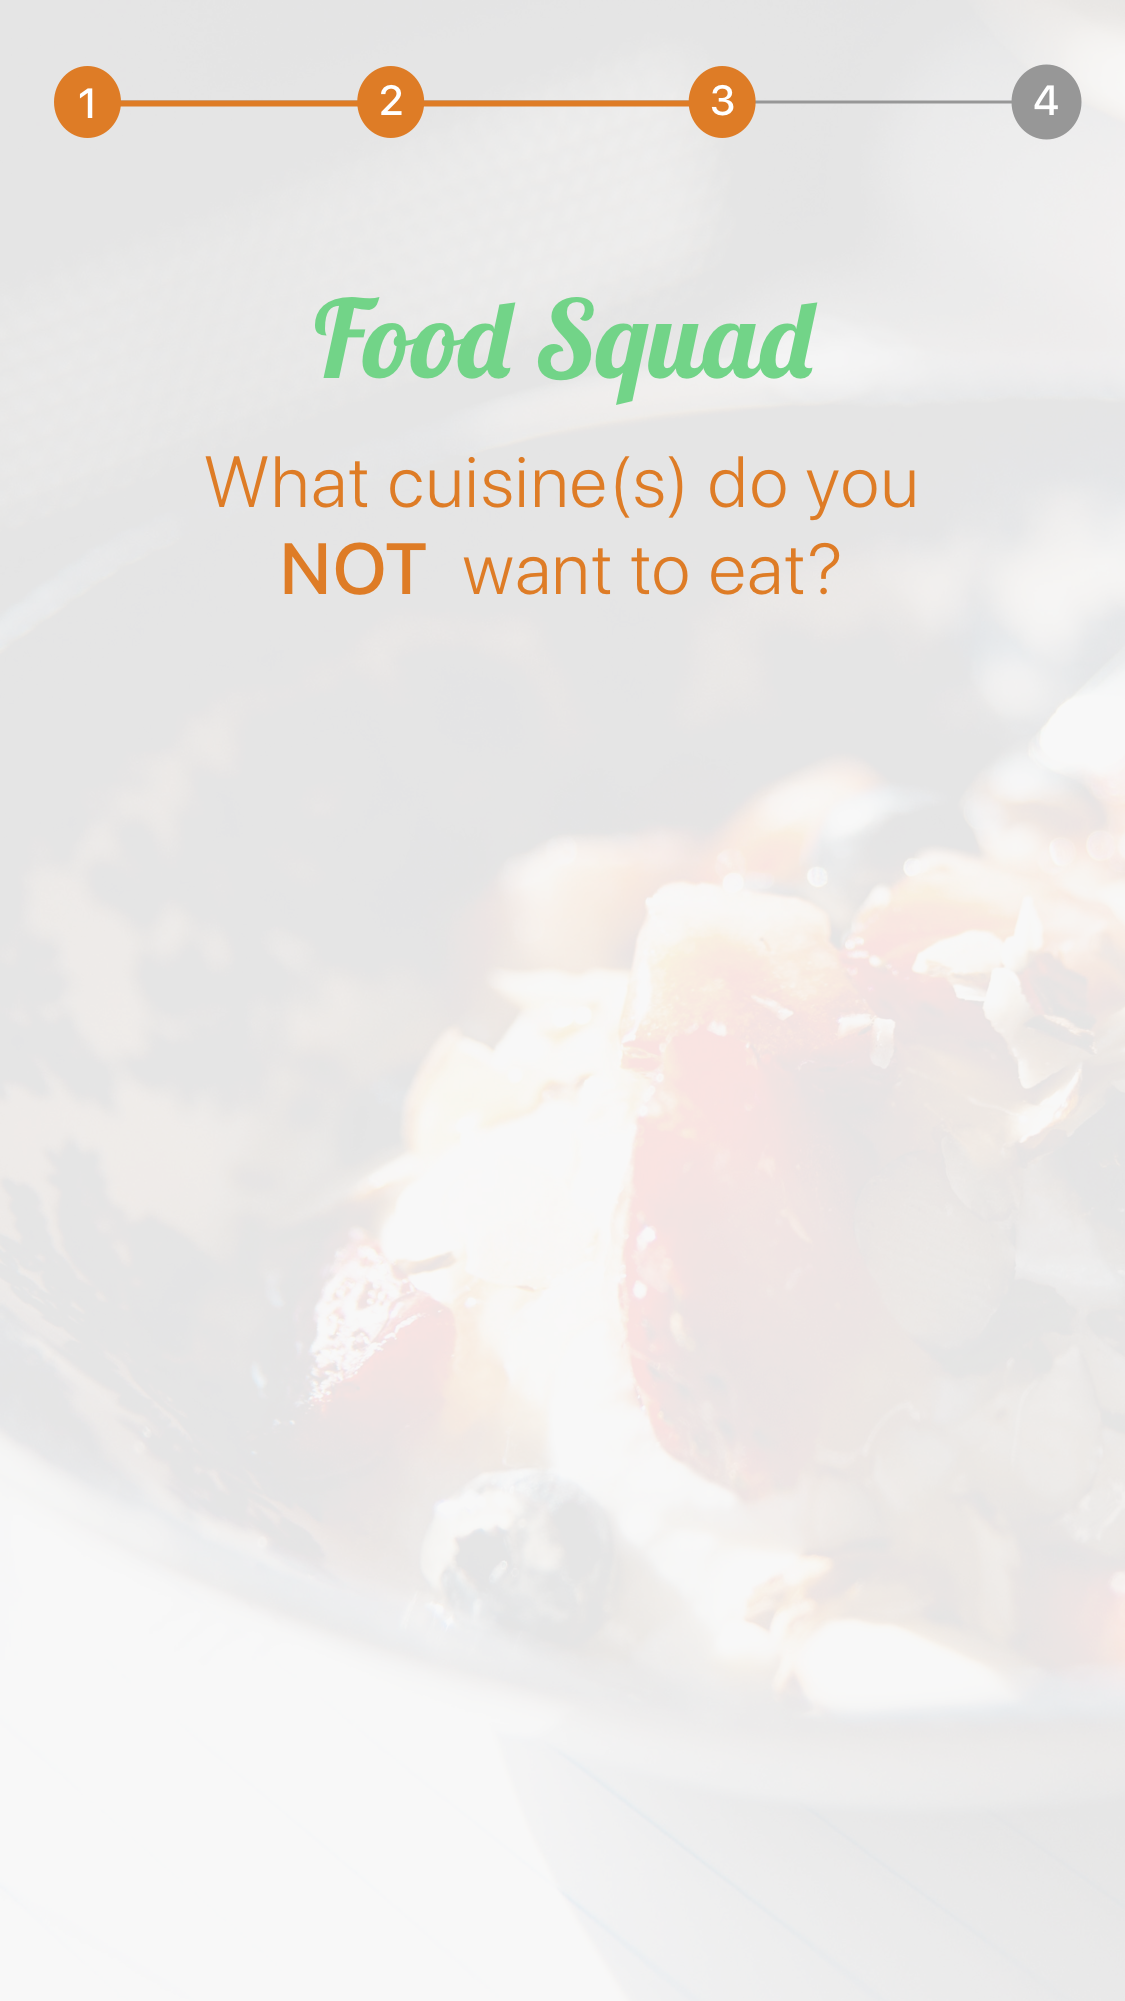
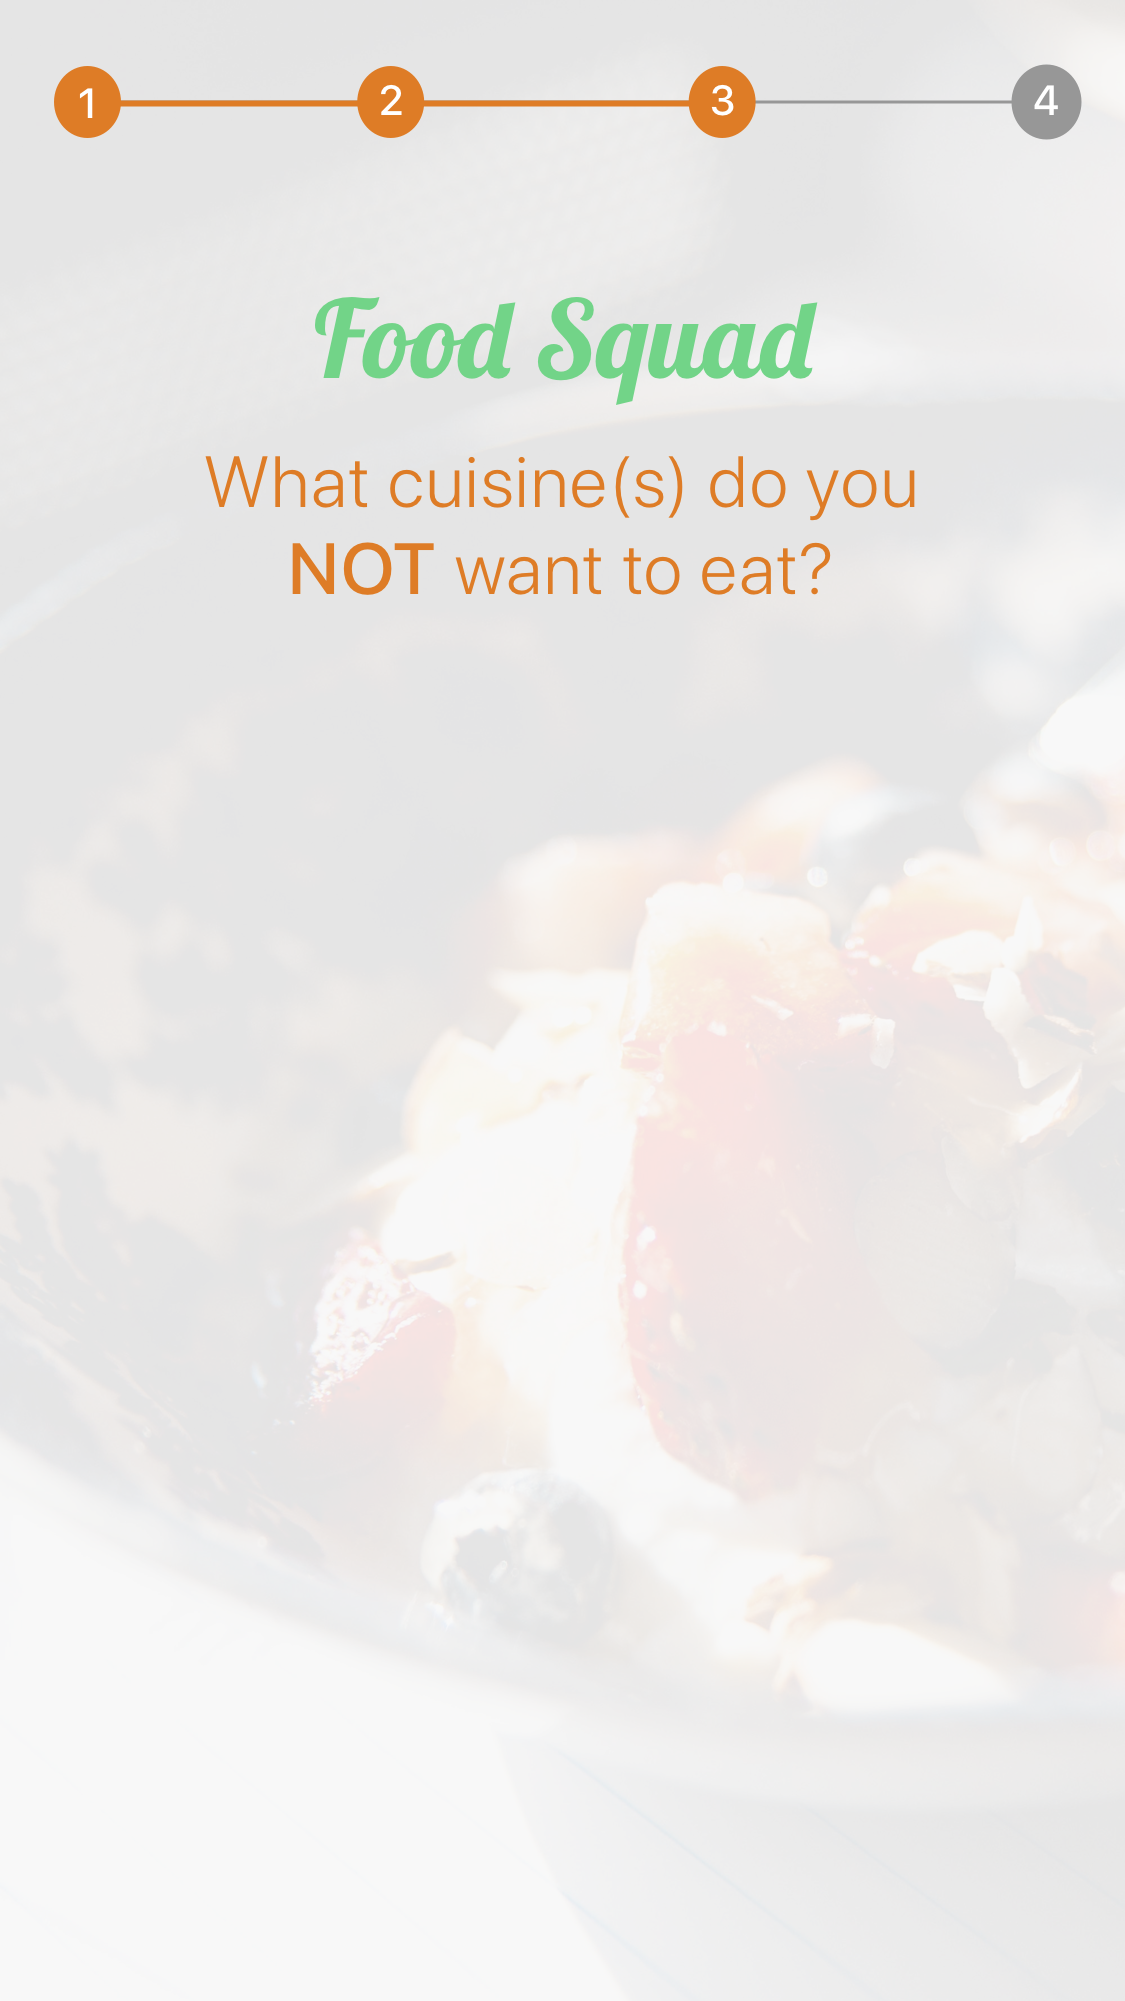
made changes to form styles
made changes to form styles

Changed region(s): [[0.4044, 0.2479, 0.7467, 0.3098], [0.2489, 0.2479, 0.3733, 0.3098]]

diff --git a/assets/css/style.css b/assets/css/style.css
@@ -45,18 +45,41 @@
   position: absolute;
   margin-top: -400px;
   margin-left: 70px;
+  font-size: 20px;
+  line-height: 30px
+}
+.categoryChoice form{
+  position: absolute;
+  margin-top: -400px;
+  font-size: 20px;
 }
 
 .categoryChoice input {
   background-color: #4CAF50;
 }
-=======
-.cuisineChoice form{
-  position: absolute;
-  margin-top: -400px;
->>>>>>> c29f6392798e00a35a5a8b4622743d5fdfd47831
+
+.categoryChoice .fieldgroup input{
+  border-radius: 50%;
+  width: 15px;
+  height: 15px;
+}
+.categoryChoice .fieldgroup{
+  margin-left: 120px;
 
 }
+
+/** CUISINES stlyes**/
+.cuisineChoice form {
+  position: absolute;
+  margin-top: -430px;
+  margin-left: 70px;
+  font-size: 20px;
+  line-height: 15px
+}
+.cuisineChoice{
+  
+}
+
 
 /**** Buttons stlyes ***/
 form .buttons button{
